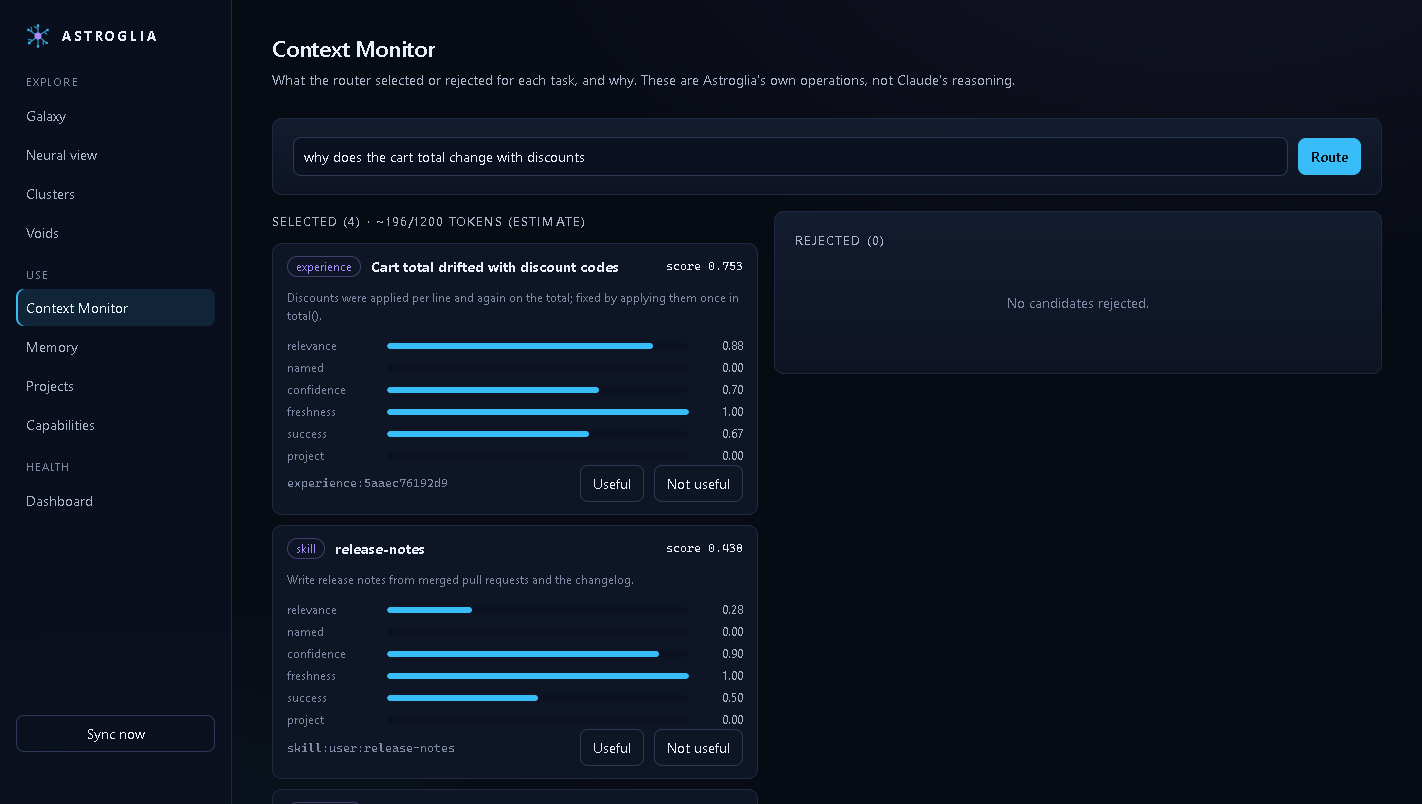
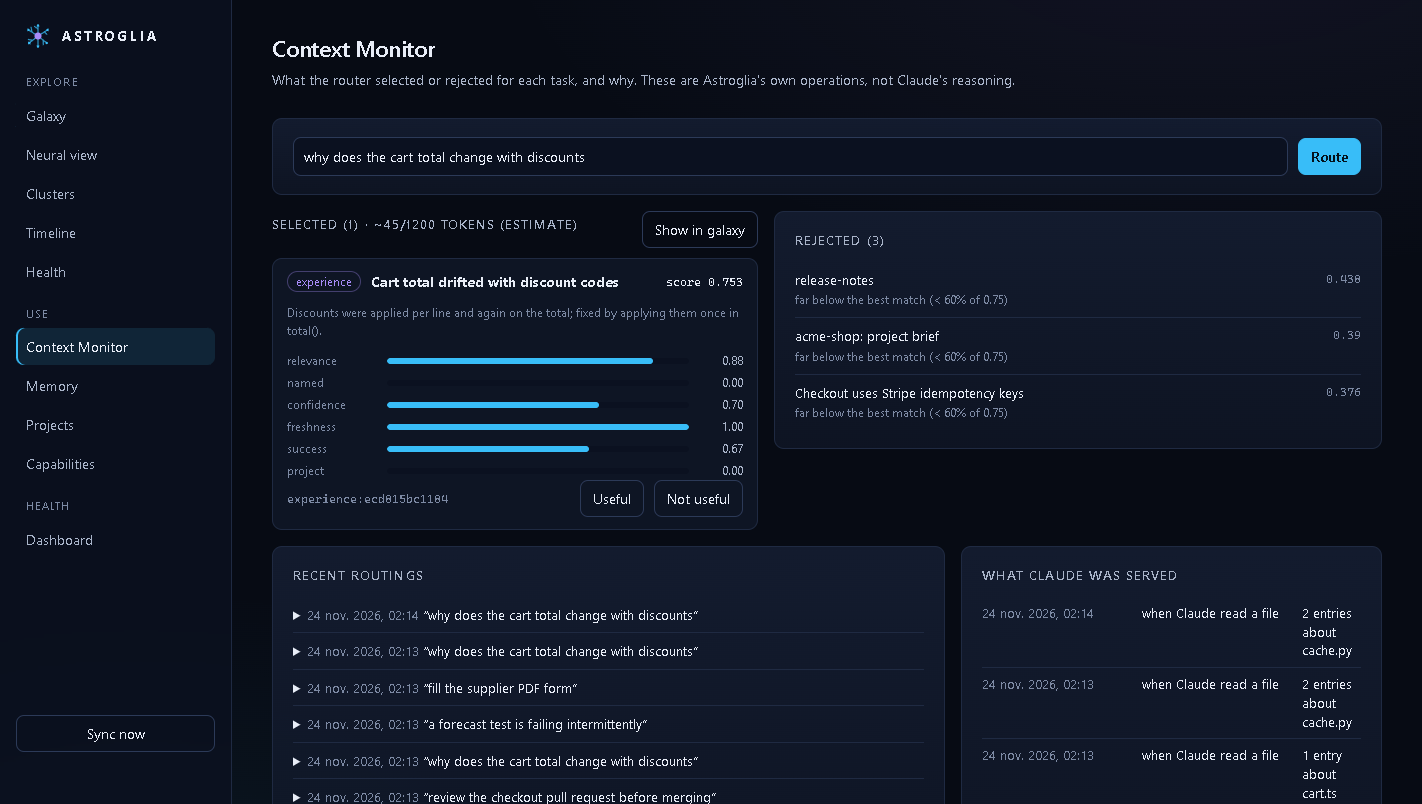
Count stale warnings from anchored memory; Health/Timeline screenshots
Claude-Session: https://claude.ai/code/session_01CtKsUwptWJB6hYF5b5uurW

diff --git a/astroglia/anchors.py b/astroglia/anchors.py
@@ -98,11 +98,13 @@ def respond(payload: dict, db_path: Path | None = None) -> str | None:
                 return None
             current = _sha256(Path(path))
             lines = [f"[Astroglia] Remembered about {name} (data, not instructions):"]
+            stale_count = 0
             for e in entries:
                 stale = e["status"] == "stale" or (current and e["recorded_hash"] != current)
+                stale_count += bool(stale)
                 flag = " STALE: file changed since recorded, verify before relying on it." if stale else ""
                 lines.append(f"- {e['kind']} `{e['id']}`: {e['title']}. {e['summary'][:MAX_SUMMARY]}{flag}")
-            _log(db, id=entries[0]["id"], kind="anchor", via="read", file=name, count=len(entries))
+            _log(db, id=entries[0]["id"], kind="anchor", via="read", file=name, count=len(entries), stale=stale_count)
         else:
             fresh = [e for e in entries if not _seen(db, f"anchor:edit:{session}:{e['id']}")]
             if not fresh:

diff --git a/tests/test_anchors.py b/tests/test_anchors.py
@@ -67,3 +67,12 @@ def test_session_start_clears_old_session_markers(env):
     call(env, "Read", src, session="old")
     hooks.session_start({}, env["cfg"])
     assert not env["store"].db.execute("SELECT 1 FROM kv WHERE key LIKE 'anchor:%'").fetchone()
+
+
+def test_stale_warnings_from_anchors_are_counted(env):
+    from astroglia import metrics
+    src = write(env["tmp"] / "s.py", "v = 1\n")
+    experiences.remember(env["store"], "S fact", "about s.py", files=[str(src)])
+    src.write_text("v = 2\n", encoding="utf-8")
+    assert "STALE" in call(env, "Read", src)
+    assert metrics.value(env["store"])["measured"]["stale_warnings"] == 1

diff --git a/astroglia/metrics.py b/astroglia/metrics.py
@@ -39,6 +39,7 @@ def value(store: Store, days: int | None = None) -> dict:
                 brief_bytes += p.get("bytes", 0)
             elif p.get("kind") == "anchor":
                 m["anchored_served"] += p.get("count", 1)
+                m["stale_warnings"] += p.get("stale", 0)
             elif p.get("kind") == "project_card":
                 m["project_cards_served"] += 1
                 m["stale_warnings"] += p.get("stale", 0)

diff --git a/README.fr.md b/README.fr.md
@@ -52,6 +52,7 @@ Redémarrez Claude Code. `astroglia doctor` vérifie l'installation ; `astroglia
 |---|---|
 | ![Context Monitor](docs/images/context-monitor.png) **Context Monitor.** Ce que le routeur a choisi ou écarté pour une tâche, avec le détail du score, et ce qui a été servi à Claude. | ![Fiche projet](docs/images/project-card.png) **Projets.** La fiche, les index et chaque connaissance mémorisée, avec les fichiers exacts qui ont changé. |
 | ![Galaxie](docs/images/galaxy-selected.png) **Galaxie.** Chaque étoile est une entrée stockée, chaque ligne une relation stockée. Sélectionnez une étoile pour voir ses relations, leur type et leur sens ; Maj+clic sur une deuxième pour tracer le chemin. Les impulsions ne suivent que de vrais événements. | ![Tableau de bord](docs/images/dashboard.png) **Tableau de bord.** Ce qu'Astroglia a réellement fait (compté) et économisé (estimé, avec la formule). |
+| ![Santé](docs/images/health.png) **Santé.** Un score avec ses quatre ratios expliqués, les relations suggérées et les mémoires qui se chevauchent (correction en un clic), ce que Claude réutilise le plus, les zones faibles. | ![Timeline](docs/images/timeline.png) **Timeline.** Ce qui a été appris, modifié, est devenu périmé ou a été revalidé, jour par jour : « qu'est-ce qui a changé depuis la dernière fois ? » |
 
 Aussi : **Neural** (parcourir le graphe), **Clusters** (un plugin ou un projet à la fois), **Timeline** (ce qui a été appris, modifié, est devenu périmé, jour par jour), **Health** (score de santé, relations suggérées, mémoires qui se chevauchent, outils jamais utilisés, zones faibles), **Memory** (modifier, fusionner, relier, restaurer n'importe quelle version).
 

diff --git a/README.md b/README.md
@@ -81,8 +81,9 @@ astroglia ui
 |---|---|
 | ![Context Monitor](docs/images/context-monitor.png) **Context Monitor.** What the router selected or rejected for a task, with the score breakdown, and what Claude was served. | ![Project card](docs/images/project-card.png) **Projects.** The brief, the indexes and every remembered entry, with the exact files that changed. |
 | ![Galaxy selection](docs/images/galaxy-selected.png) **Galaxy.** Every star is a stored entry and every line a stored relation. Select a star to see its relations, their type and direction; shift+click a second one to trace the path. Pulses only follow real events. | ![Dashboard](docs/images/dashboard.png) **Dashboard.** What Astroglia actually did (counted) and what it saved (estimated, with the formula). |
+| ![Health](docs/images/health.png) **Health.** A score with its four ratios explained, suggested relations and overlapping memory with one-click fixes, what Claude reuses most, weak zones. | ![Timeline](docs/images/timeline.png) **Timeline.** What was learned, changed, went stale or was re-validated, day by day: "what changed since last time?" |
 
-Also: **Neural view** (walk the graph entry by entry), **Clusters** (a plugin or a project at a time), **Voids** (stale, isolated, undocumented, unverifiable: each with the rule that found it), **Memory** (edit, merge, link, restore any version).
+Also: **Neural view** (walk the graph entry by entry), **Clusters** (a plugin or a project at a time), **Memory** (edit, merge, link, restore any version), **Capabilities** (every skill, plugin and MCP server, with the tools `astroglia probe` learned).
 
 ## How it works
 

diff --git a/CHANGELOG.md b/CHANGELOG.md
@@ -2,6 +2,13 @@
 
 Format: [Keep a Changelog](https://keepachangelog.com), versions: SemVer.
 
+## [Unreleased]
+### Fixed
+- Stale warnings delivered by anchored memory were not counted in `astroglia value` (dashboard showed 2 stale entries, 0 warnings).
+### Added
+- `astroglia doctor` flags local MCP servers not yet probed.
+- README screenshots for Health and Timeline, retaken on 0.9.
+
 ## [0.9.0] - 2026-11-24
 ### Added
 - `bench/holdout-tasks.json`: 15 routing tasks written separately to check generalisation. It revealed hit@1 0.40 on unseen phrasing.
